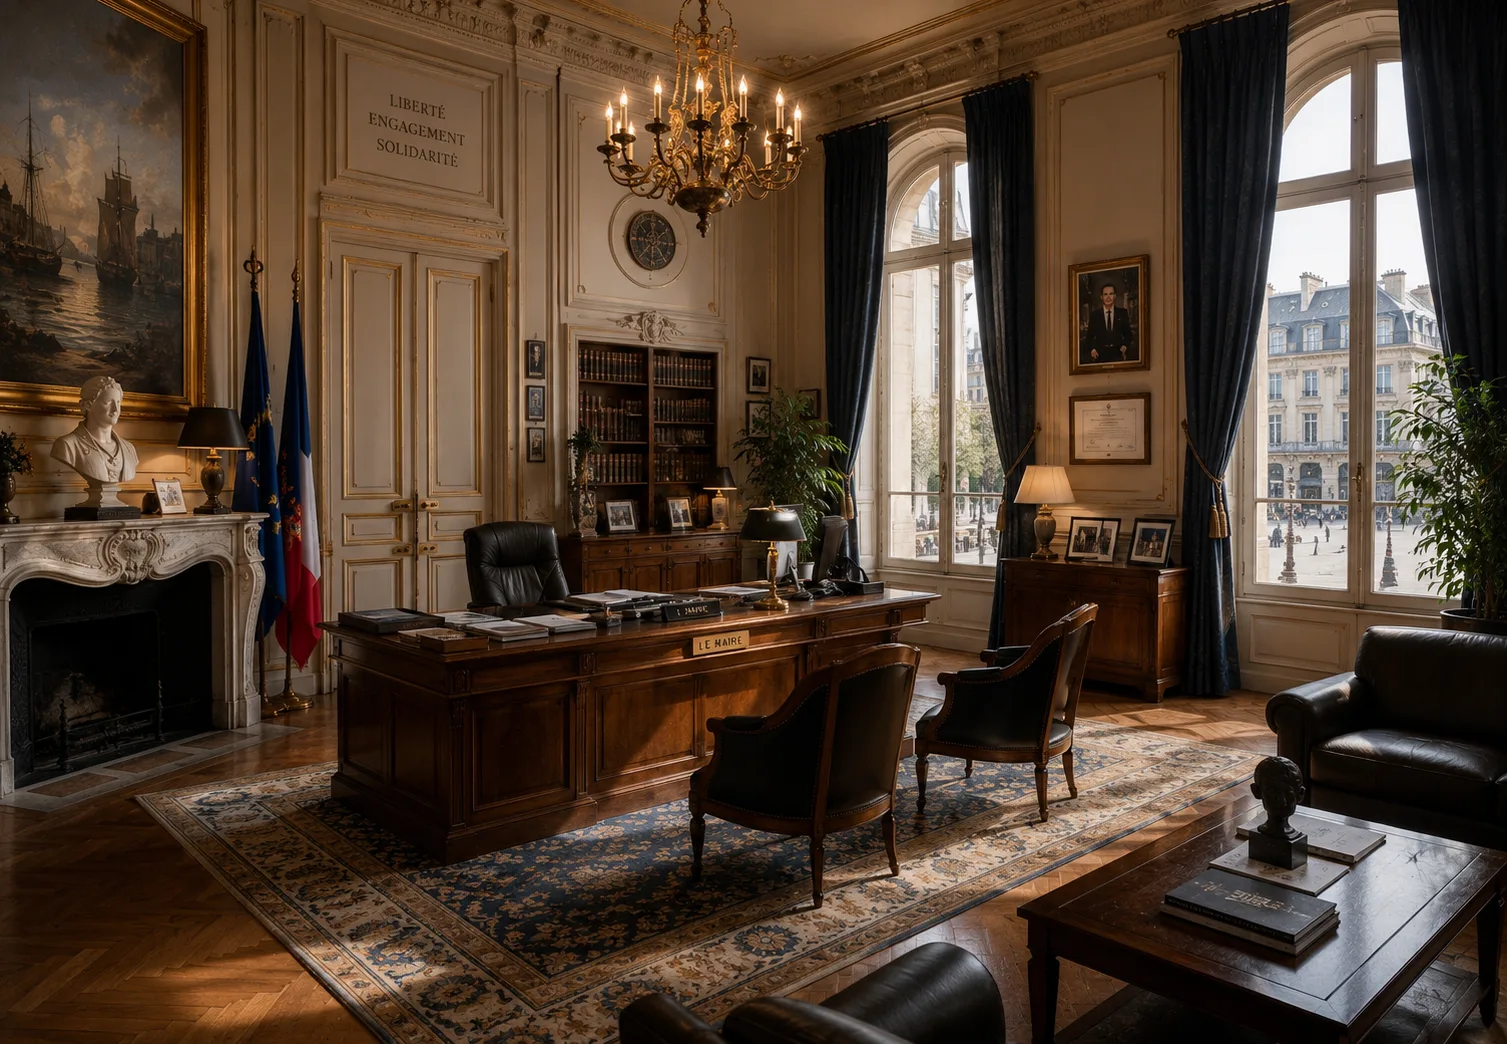
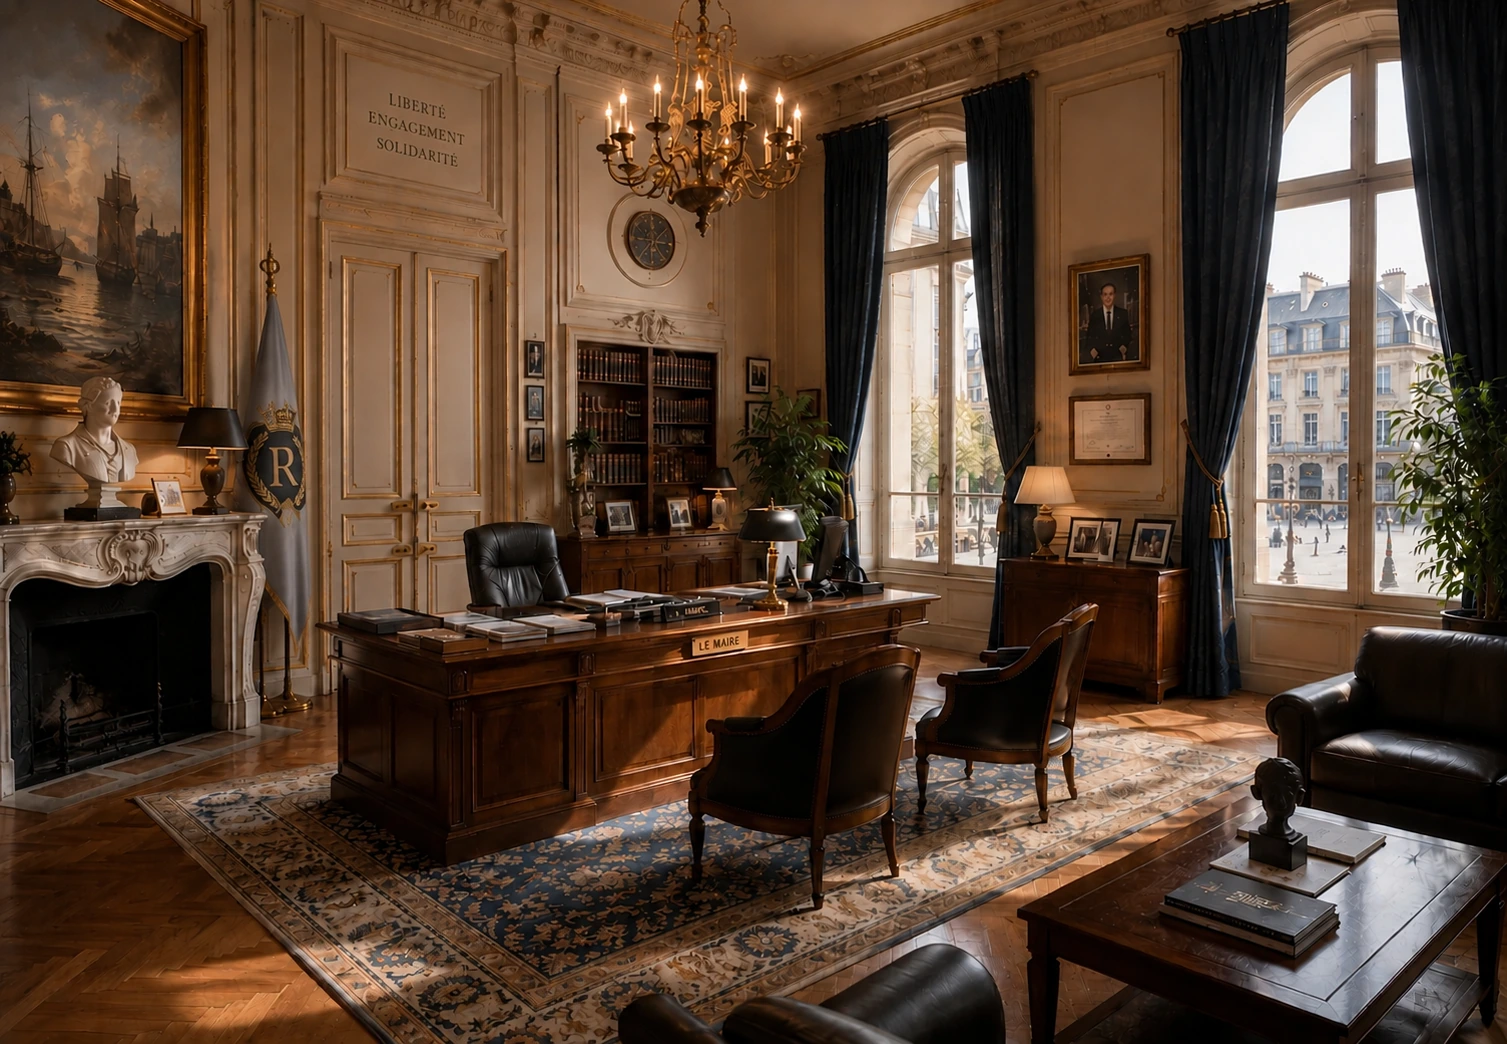
Intégrer le WebP corrigé du bureau du maire de Luthécia

diff --git a/data.js b/data.js
@@ -7117,7 +7117,7 @@ const ROOM_IMAGES_EMPIRE = {
     },
     'mairie-capitale': {
       'hall_mairie':      'images/mairie-luthecia.webp?v=d8217489',
-      'bureau_maire':     'images/bureau-maire-luthecia.webp',
+      'bureau_maire':     'images/bureau-maire-luthecia.webp?v=fe878010',
       'salle_elections':  'images/salle-elections-luthecia.webp'
     },
     'mairie': {

diff --git a/outils/bancs/CONTINUITE-MUNICIPALE-20261015.md b/outils/bancs/CONTINUITE-MUNICIPALE-20261015.md
@@ -68,18 +68,24 @@ complètent les bancs fonctionnels.
 
 ## Vérifications restantes et image
 
-Le fichier `bureau-maire-luthecia-corrige.webp` et son ZIP ne sont pas présents
-dans les pièces jointes accessibles à cette session. Le seul ZIP accessible est
-l'ancien `mairie-luthecia-pour-codex.zip`, destiné à l'accueil. Il n'est pas utilisé
-pour le bureau. L'image actuelle `images/bureau-maire-luthecia.webp` est conservée.
-À réception du bon fichier, seule la référence
-`ROOM_IMAGES_EMPIRE.republic['mairie-capitale'].bureau_maire` doit changer si le
-nom du fichier change. Le visuel partagé `images/bureau-maire.webp`, utilisé
-notamment par l'adjoint, ne doit pas être remplacé.
+Le ZIP corrigé a été reçu après le premier commit. Son unique fichier
+`bureau-maire-luthecia-corrige.webp` remplace, sans réencodage ni retouche,
+`images/bureau-maire-luthecia.webp` : WebP, **1507 × 1044**, 338 810 octets.
+L'empreinte SHA-256 du fichier installé est identique à celle de l'entrée ZIP :
[1 lines of base64/hex data omitted]
+Seule la référence de ce bureau est versionnée avec `?v=fe878010`, car les
+images sont servies avec un cache immutable d'un an. Le visuel de l'adjoint et
+les visuels des autres villes restent inchangés.
+
+Le composant de décor a été contrôlé dans Chromium avec le fragment de rendu
+réel de `plateau-navigation.js`, `data.js` et `style.css` : chargement et décodage
+HTTP local, dimensions attendues, centrage et mode `cover` inchangés, captures
+aux largeurs 1440 et 390 pixels. Ce contrôle isolé ne constitue pas un parcours
+authentifié du jeu. Les 24 tests de continuité ont été relancés avec succès.
 
 Aucun connecteur Supabase n'est exposé à cette session et aucun accès de test
 authentifié utilisable n'est disponible. L'audit des données vivantes et les
 transitions réelles avec un compte de test restent à réaliser. Aucune modification
 SQL, migration, réextraction ou réouverture du chantier baseline n'est nécessaire
-pour ce correctif applicatif. Le remplacement visuel et la validation en situation
-réelle restent **non terminés**.
+pour ce correctif applicatif. Le remplacement visuel est terminé ; la validation des PNJ en situation
+réelle reste **non terminée**.
